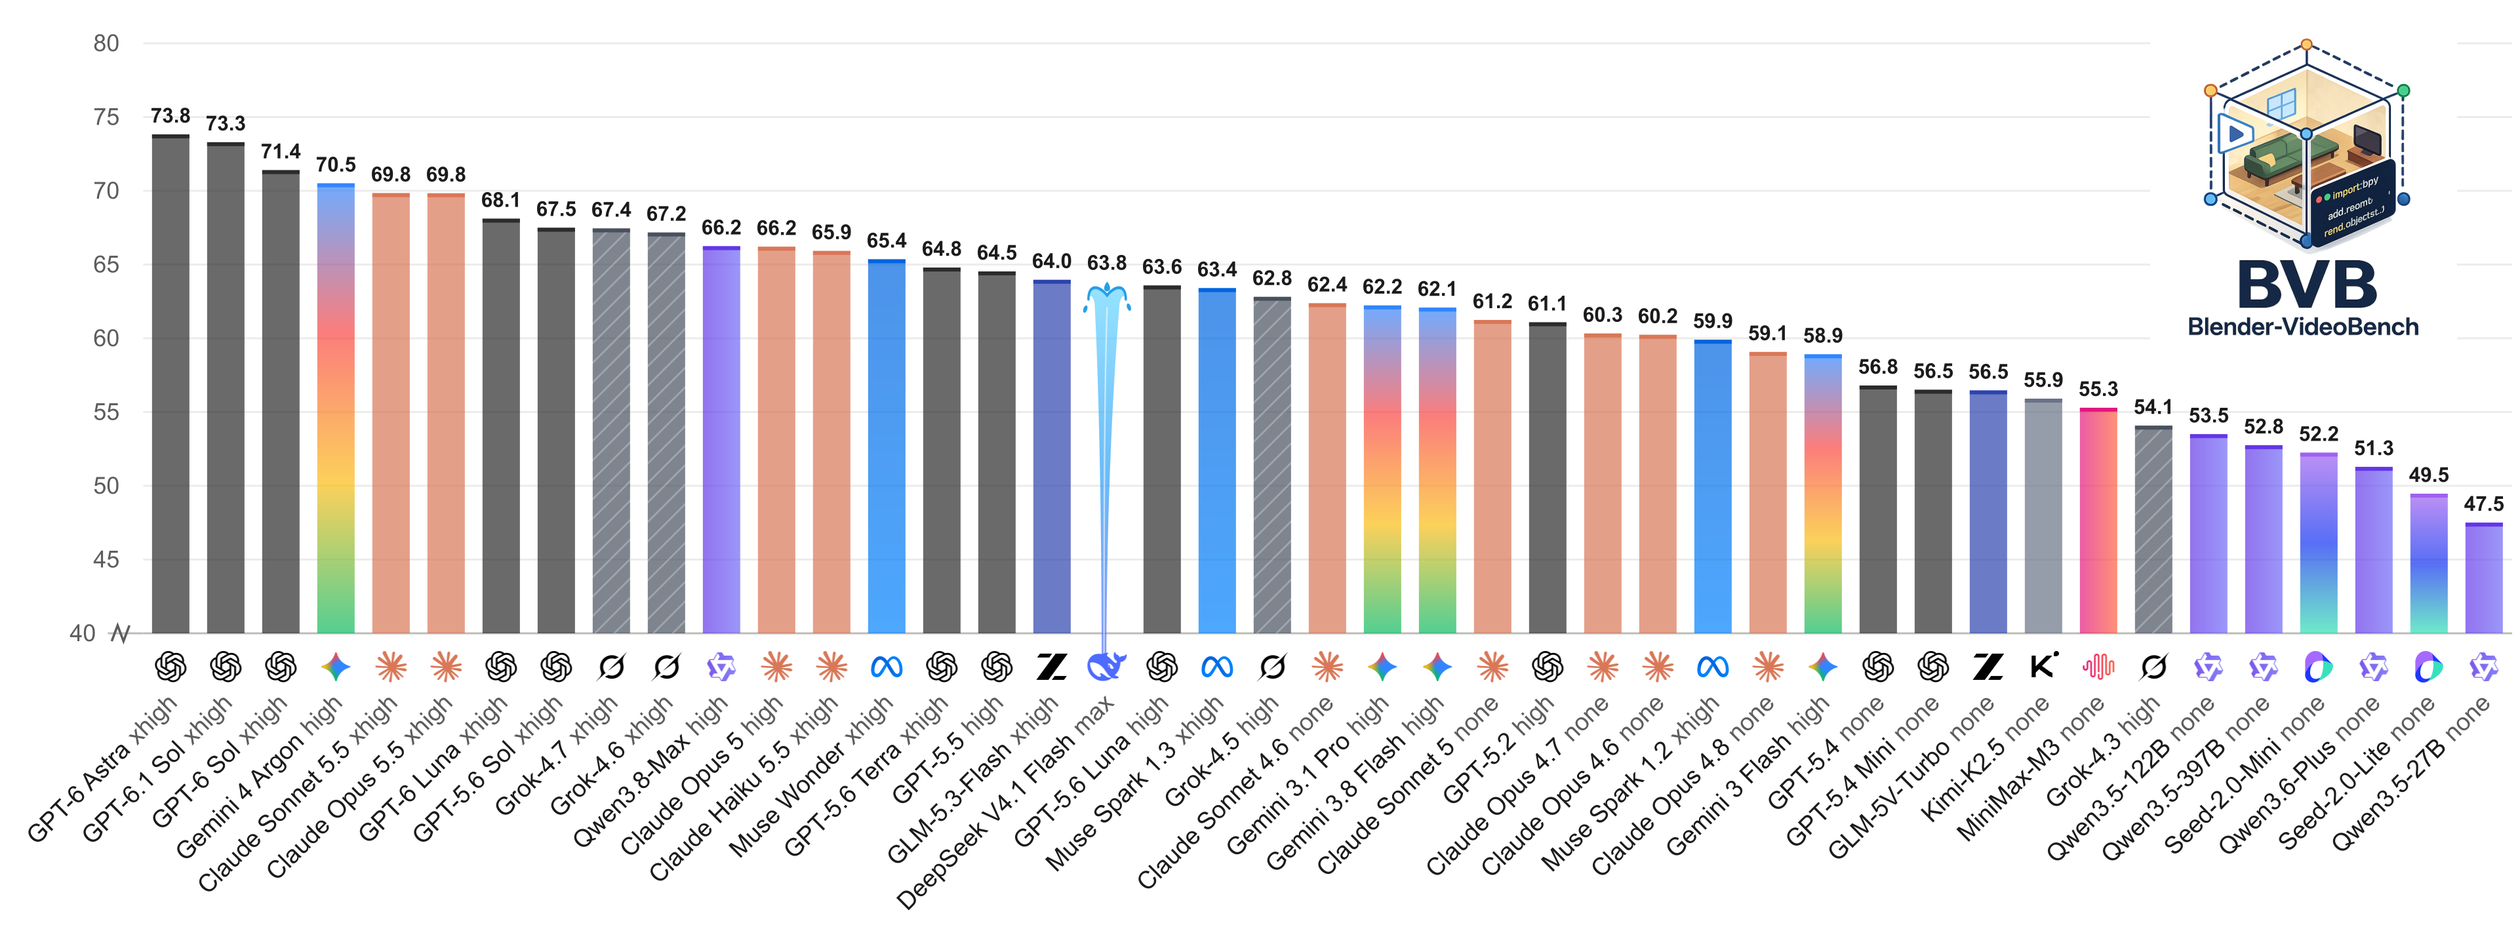
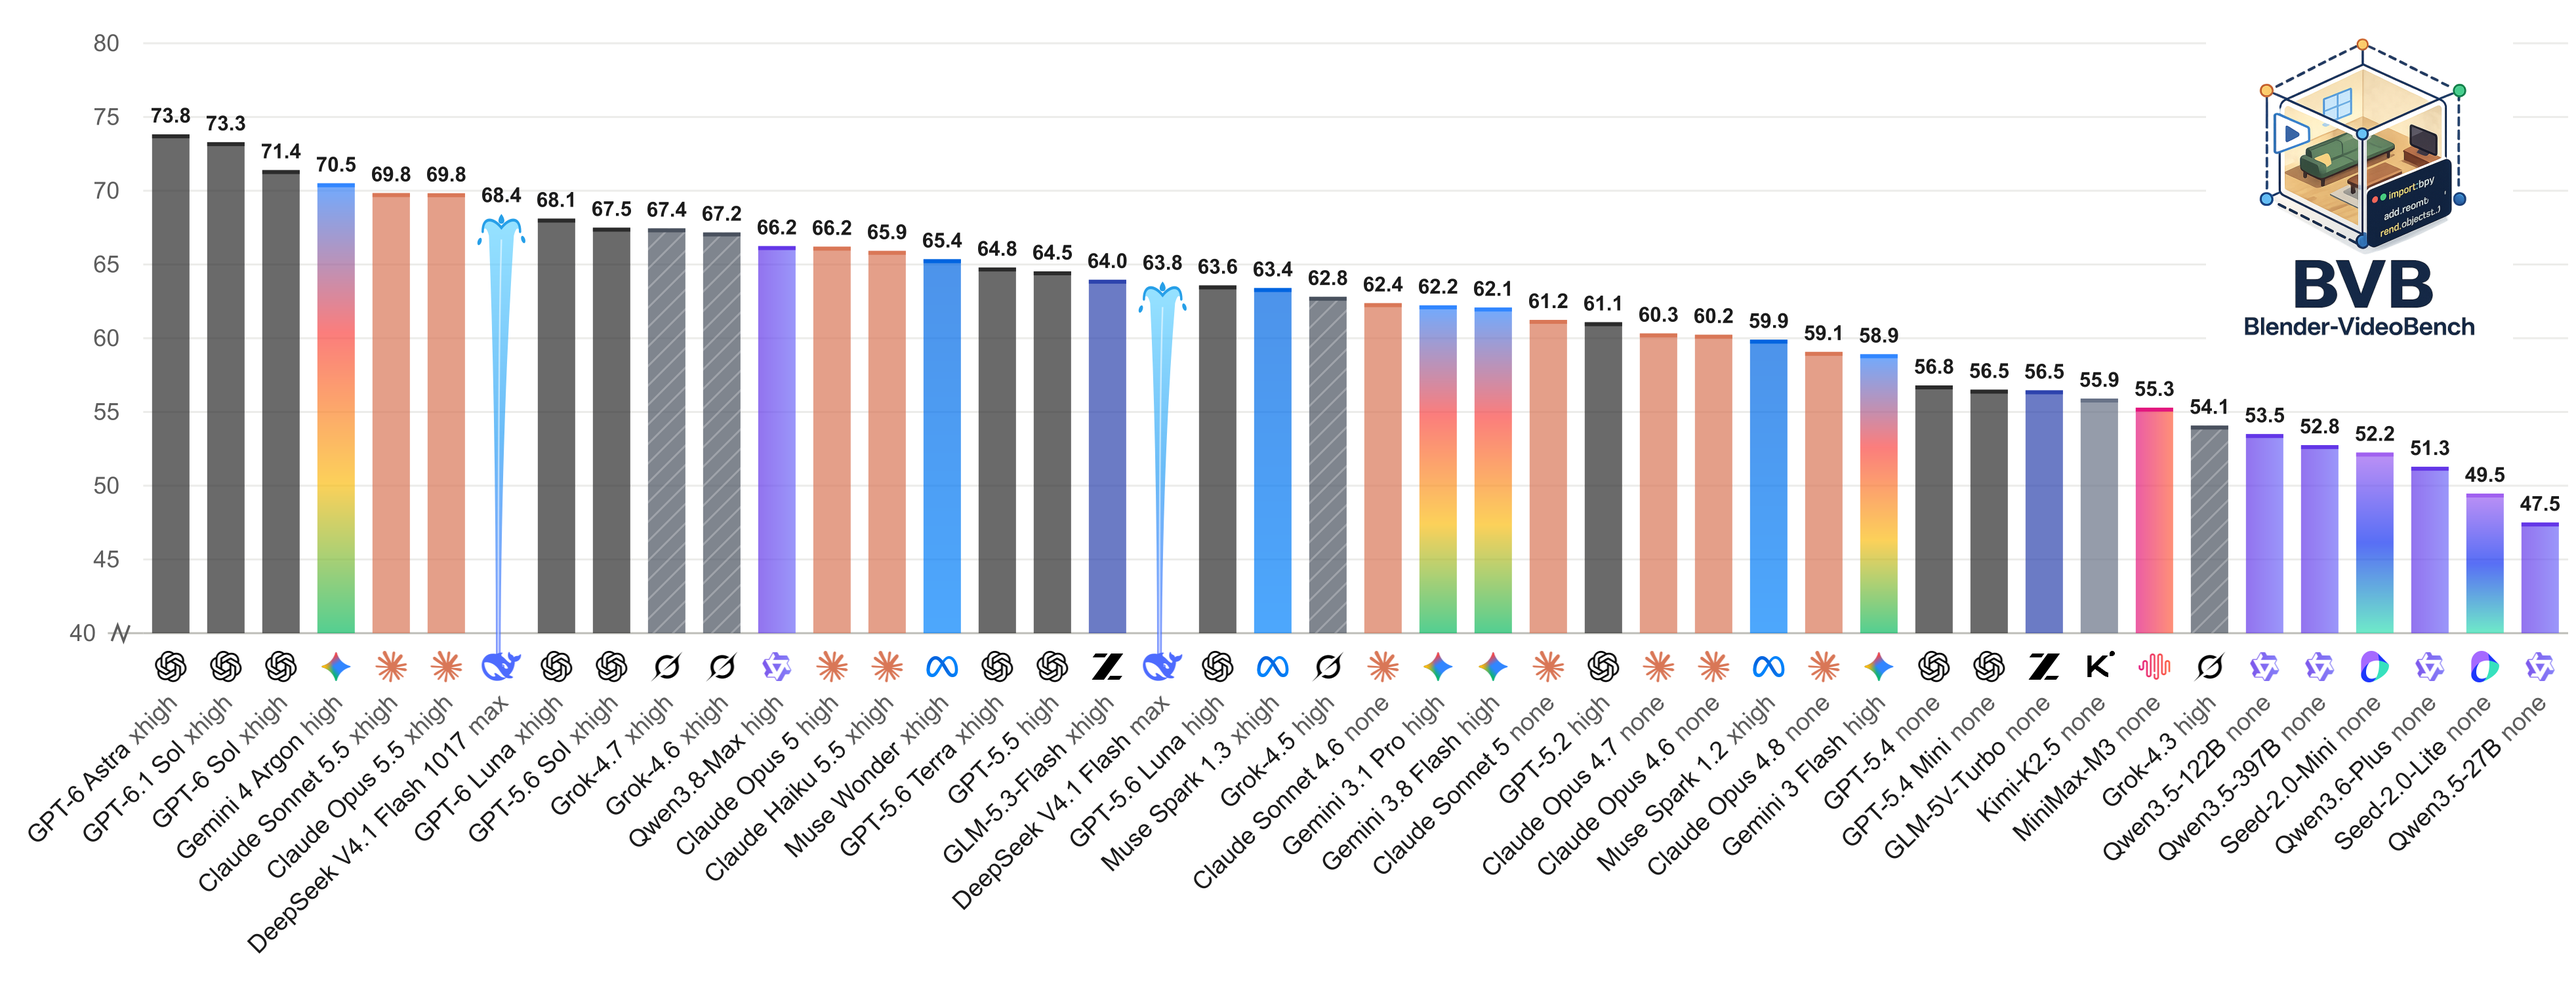
Add DeepSeek 1017 news and refresh leaderboard hero

diff --git a/README.md b/README.md
@@ -11,7 +11,7 @@
 
 <p align="center">
   <a href="https://yoloytang.me/BVB/#leaderboard">
-    <img src="assets/bvb-leaderboard.png?v=d153017fbe73" alt="BVB Overall leaderboard: best configuration per model" width="1200">
+    <img src="assets/bvb-leaderboard.png?v=cb769088ebfc" alt="BVB Overall leaderboard: best configuration per model" width="1200">
   </a>
 </p>
 
@@ -30,6 +30,8 @@ limit. External asset libraries are not allowed.
 
 ## News
 
+- **[10/17/2026]** Added DeepSeek V4.1 Flash 1017 (max) to the
+  [leaderboard](https://yoloytang.me/BVB/#leaderboard).
 - **[10/13/2026]** Added Muse Wonder (xhigh), Claude Haiku 5.5 (xhigh), Grok 4.7 (xhigh), DeepSeek V4.1 Flash (max), and Gemini 4 Argon (high)
   to the [leaderboard](https://yoloytang.me/BVB/#leaderboard).
 - **[9/30/2026]** Added GPT-6.1 Sol (xhigh) and Claude Sonnet 5.5 (xhigh) to the
